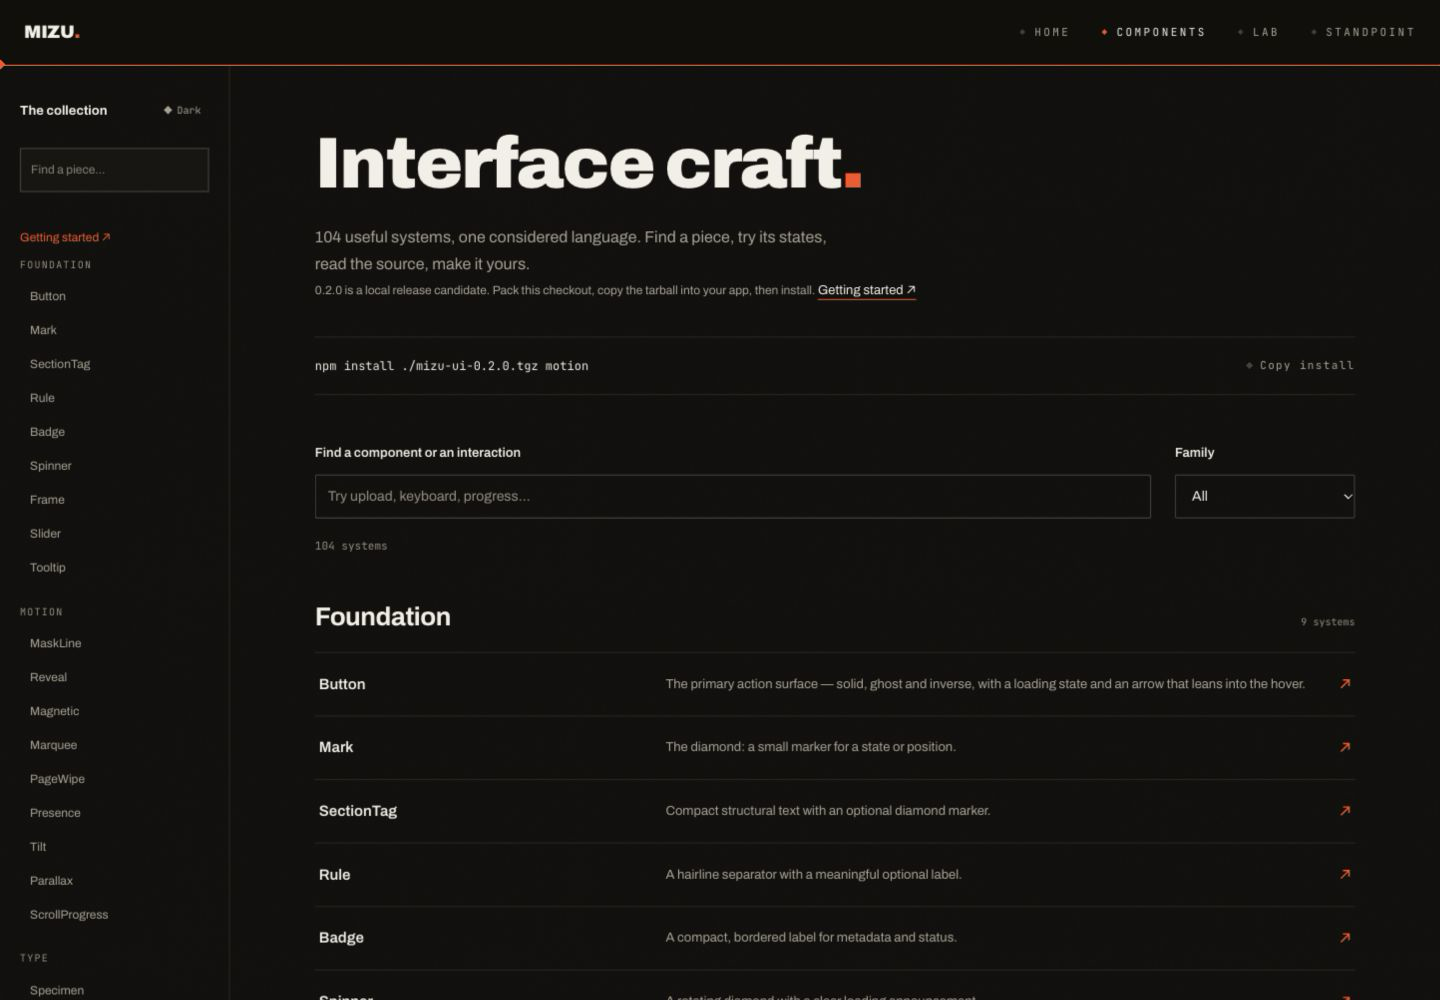
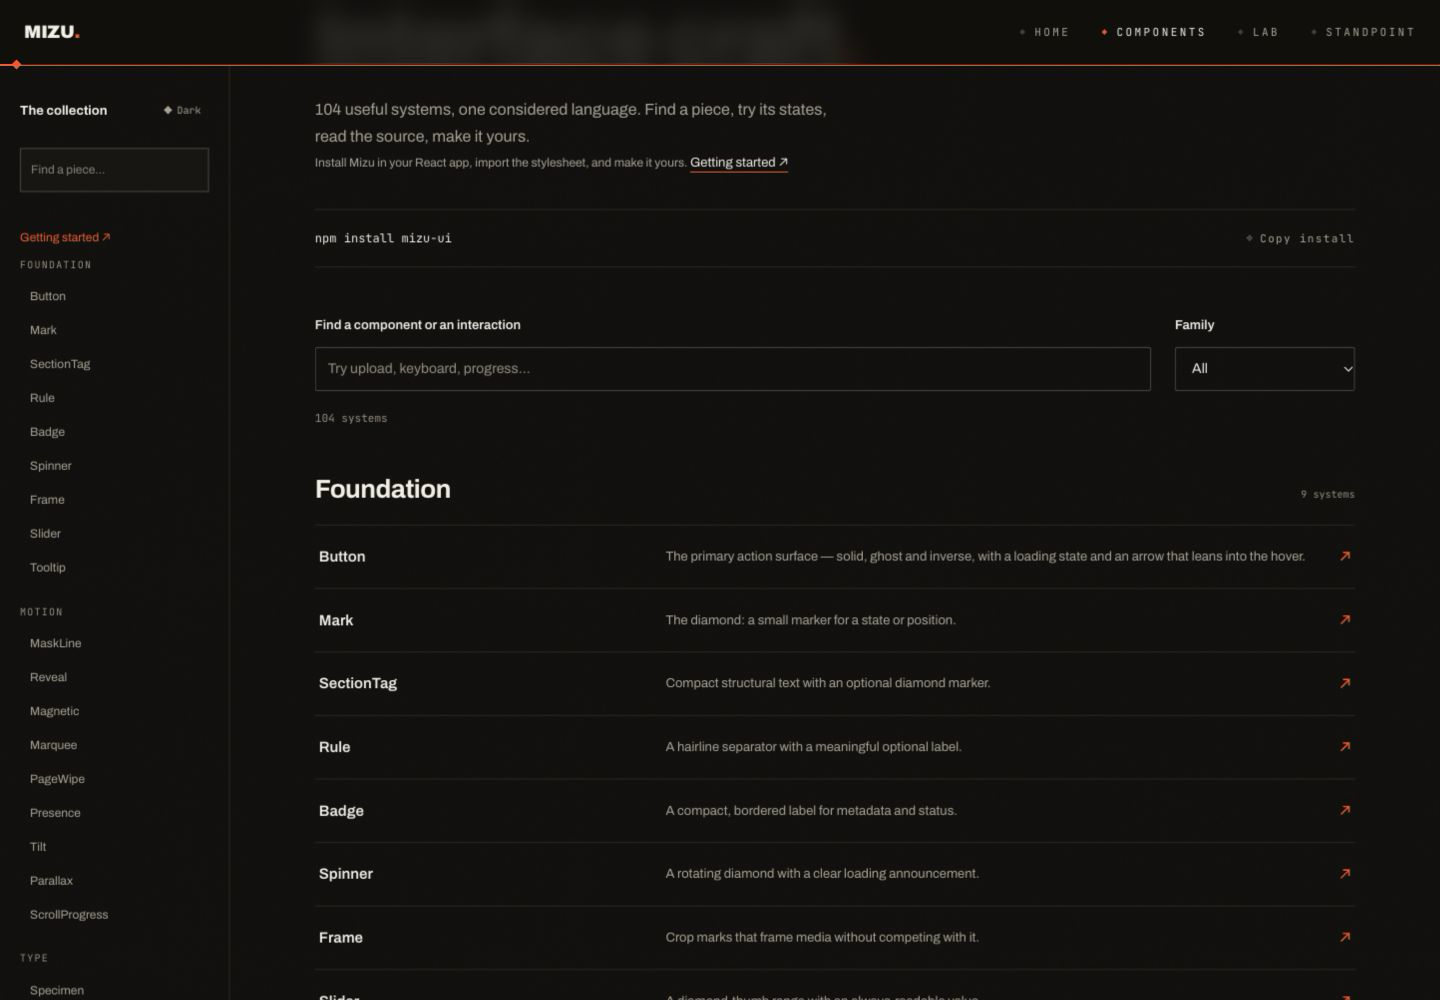
Use the standard npm install command throughout consumer documentation

diff --git a/src/app/components/getting-started/page.tsx b/src/app/components/getting-started/page.tsx
@@ -19,17 +19,12 @@ export default function GettingStarted() {
           configuration and no provider for ordinary components.
         </p>
         <h2>Install</h2>
-        <Code>{`npm pack ./packages/mizu
-# Copy the resulting tarball into your app, then:
-npm install ./mizu-ui-0.2.0.tgz motion`}</Code>
+        <Code>npm install mizu-ui</Code>
         <p>
-          This repository prepares version 0.2.0. Until that version is
-          published, pack this checkout and install its tarball:{" "}
-          <code>npm pack ./packages/mizu</code>, then{" "}
-          <code>npm install /absolute/path/mizu-ui-0.2.0.tgz motion</code> in
-          your app. React and React DOM are peers; use the versions your app
-          already supplies. After publication, install this version with{" "}
-          <code>npm install mizu-ui@0.2.0 motion</code>.
+          Run this command in your React application. Mizu supports React and
+          React DOM 18.3 or 19, with Motion 12 or 13 as a peer dependency. Use
+          the React versions your application already supplies. Then import the
+          stylesheet and the components you need.
         </p>
         <h2>Render a working interaction</h2>
         <Code>{`"use client"; // required at an interactive Next.js boundary

diff --git a/src/app/components/page.tsx b/src/app/components/page.tsx
@@ -1,5 +1,4 @@
 import Link from "next/link";
-import { version } from "../../../packages/mizu/package.json";
 import { CopyButton } from "@/mizu";
 import { ComponentsShell } from "@/components/docs/ComponentsShell";
 import { ComponentBrowser } from "@/components/docs/ComponentBrowser";
@@ -32,16 +31,16 @@ export default function ComponentsIndex() {
           className="mizu-field-hint"
           style={{ margin: "0 0 16px", lineHeight: 1.7 }}
         >
-          {version} is a local release candidate. Pack this checkout, copy the
-          tarball into your app, then install.{" "}
+          Install Mizu in your React app, import the stylesheet, and make it
+          yours.{" "}
           <Link href="/components/getting-started" className="mizu-text-button">
             Getting started ↗
           </Link>
         </p>
         <div className="mizu-install-strip">
-          <code>{`npm install ./mizu-ui-${version}.tgz motion`}</code>
+          <code>npm install mizu-ui</code>
           <CopyButton
-            text={`npm install ./mizu-ui-${version}.tgz motion`}
+            text="npm install mizu-ui"
             aria-label="Copy installation command"
           >
             Copy install

diff --git a/src/components/docs/catalog/content.ts b/src/components/docs/catalog/content.ts
@@ -155,7 +155,7 @@ export const CONTENT = [
     "Content",
     "content/Checklist.tsx",
     "Complete a set of real tasks and see how much remains.",
-    '  const [items,setItems] = useState([{id:"types",label:"Check types",checked:true},{id:"browser",label:"Review in the browser",description:"Include a narrow screen and keyboard navigation.",checked:false},{id:"package",label:"Install the tarball",checked:false}]);\n  return <Checklist label="Release checks" items={items} onChange={(id,checked)=>setItems(items.map(i=>i.id===id ? {...i,checked} : i))} />;',
+    '  const [items,setItems] = useState([{id:"types",label:"Check types",checked:true},{id:"browser",label:"Review in the browser",description:"Include a narrow screen and keyboard navigation.",checked:false},{id:"package",label:"Install mizu-ui",checked:false}]);\n  return <Checklist label="Release checks" items={items} onChange={(id,checked)=>setItems(items.map(i=>i.id===id ? {...i,checked} : i))} />;',
     [
       p(
         "items",

diff --git a/src/components/docs/catalog/data.ts b/src/components/docs/catalog/data.ts
@@ -108,7 +108,7 @@ export const DATA = [
     "Data",
     "data/Records.tsx",
     "Events connected by a fine thread, with the present kept distinct.",
-    '  return <Timeline label="Illustrative release timeline" items={[{id:"a",title:"Foundations repaired",time:"Monday",state:"complete",body:"Keyboard and motion contracts checked."},{id:"b",title:"Package validated",time:"Tuesday",state:"current",body:"Fresh tarball installation passed."},{id:"c",title:"Release review",time:"Wednesday",state:"upcoming"}]} />;',
+    '  return <Timeline label="Illustrative release timeline" items={[{id:"a",title:"Foundations repaired",time:"Monday",state:"complete",body:"Keyboard and motion contracts checked."},{id:"b",title:"Package validated",time:"Tuesday",state:"current",body:"Installed mizu-ui in a fresh app."},{id:"c",title:"Release review",time:"Wednesday",state:"upcoming"}]} />;',
     [
       p(
         "items",

diff --git a/README.md b/README.md
@@ -5,20 +5,18 @@ hairline rules, diamond markers and motion that follows an action.
 
 The React package lives in [packages/mizu](packages/mizu). The Next.js site is
 its working documentation, archive and instrument lab. Consumers need neither
-Next.js nor Tailwind. Version **0.2.0 is prepared locally; this work does not
-publish it to npm**.
+Next.js nor Tailwind.
 
 ## Use Mizu
 
-For this unpublished checkout, run `npm pack ./packages/mizu` at the repository
-root, copy the resulting tarball into your application, then:
+Install in your React application:
 
 ```sh
-npm install ./mizu-ui-0.2.0.tgz motion
+npm install mizu-ui
 ```
 
-After publication, the registry equivalent is `npm install mizu-ui@0.2.0 motion`. Supported peers:
-React / React DOM >=18.3 <20 and Motion >=12 <14. ESM only.
+Supported peers: React / React DOM >=18.3 <20 and Motion >=12 <14. ESM only.
+Import the stylesheet once, then use the components you need:
 
 ```tsx
 import "mizu-ui/styles.css";

diff --git a/PUBLISHING.md b/PUBLISHING.md
@@ -43,9 +43,9 @@ npm publish --access public
 
 Use your registry's required authentication. After publication, install the
 exact released version in a fresh app, run its production build and browser
-smoke checks, then tag the reviewed commit. Update the candidate status and installation copy
-in the showcase and READMEs once the registry version is available. Do not validate publication using
-repository source aliases or a file-linked install.
+smoke checks, then tag the reviewed commit. Public documentation uses
+`npm install mizu-ui`; tarballs are for the repository's pre-release verification.
+Do not validate publication using repository source aliases or a file-linked install.
 
 ## Supported distribution
 

diff --git a/docs/VERIFICATION.md b/docs/VERIFICATION.md
@@ -6,6 +6,11 @@ certification. The audit started with 28 systems and 36 behavior checks. The
 result contains 104 systems, counted from the catalog rather than file count.
 See [the inventory](COMPONENTS.md) and [audit resolutions](AUDIT.md).
 
+This records verification of the initial candidate at commit `88d31cb`. Public
+setup instructions now use `npm install mizu-ui`; the tarball checks below are
+maintainer validation of the package artifact. That documentation update does not
+constitute an npm publication or change the measurements recorded here.
+
 ## Engineering and distribution
 
 | Gate | Result / scope |

diff --git a/packages/mizu/README.md b/packages/mizu/README.md
@@ -7,15 +7,11 @@ diamond markers and purposeful motion connect the collection.
 
 ## Install and render
 
-This checkout prepares an unpublished 0.2.0 candidate. Run
-`npm pack ./packages/mizu` from the repository root, copy the tarball into your
-app, then:
+Run this command in your React application:
 
 ```sh
-npm install ./mizu-ui-0.2.0.tgz motion
+npm install mizu-ui
 ```
-
-After publication: `npm install mizu-ui@0.2.0 motion`.
 
 Peers: React and React DOM >=18.3 <20; Motion >=12 <14. The package is ESM only,
 with TypeScript declarations and source maps. Next.js and Tailwind are not

diff --git a/docs/FINISH-REVIEW.md b/docs/FINISH-REVIEW.md
@@ -1,5 +1,10 @@
 # Independent finish review
 
+Historical review of the initial local candidate. Consumer setup was subsequently
+updated at the user's direction to `npm install mizu-ui` throughout the showcase
+and READMEs. The candidate/tarball instructions discussed below belong to that
+earlier review, not the current public installation flow.
+
 The final scoped disposition is **ship**. All three material corrections below
 were resolved and committed. This review covered supplied true-scale desktop,
 755px and phone viewport sections, component/consumer captures and relevant

diff --git a/examples/consumer/README.md b/examples/consumer/README.md
@@ -6,6 +6,10 @@ workspace, archive drafts and recover the archive. Theme and motion controls
 operate on the whole composition. The records are synthetic and persistence
 uses this browser's localStorage; there is no service or account.
 
+For your own application, install with `npm install mizu-ui`, import
+`mizu-ui/styles.css`, and use the components shown here. The commands below
+verify the repository's package artifact before release.
+
 Run from the repository root:
 
 ```sh
